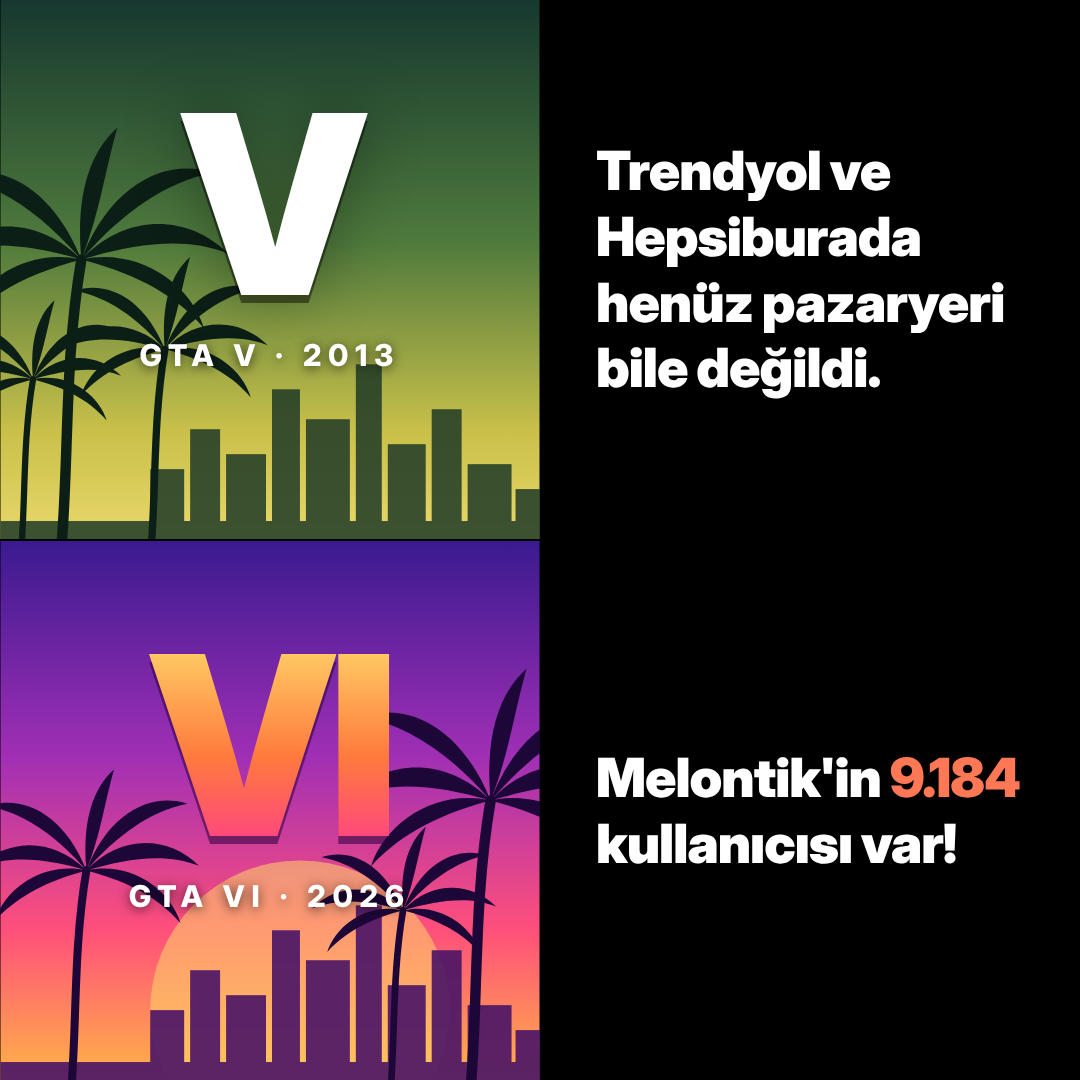
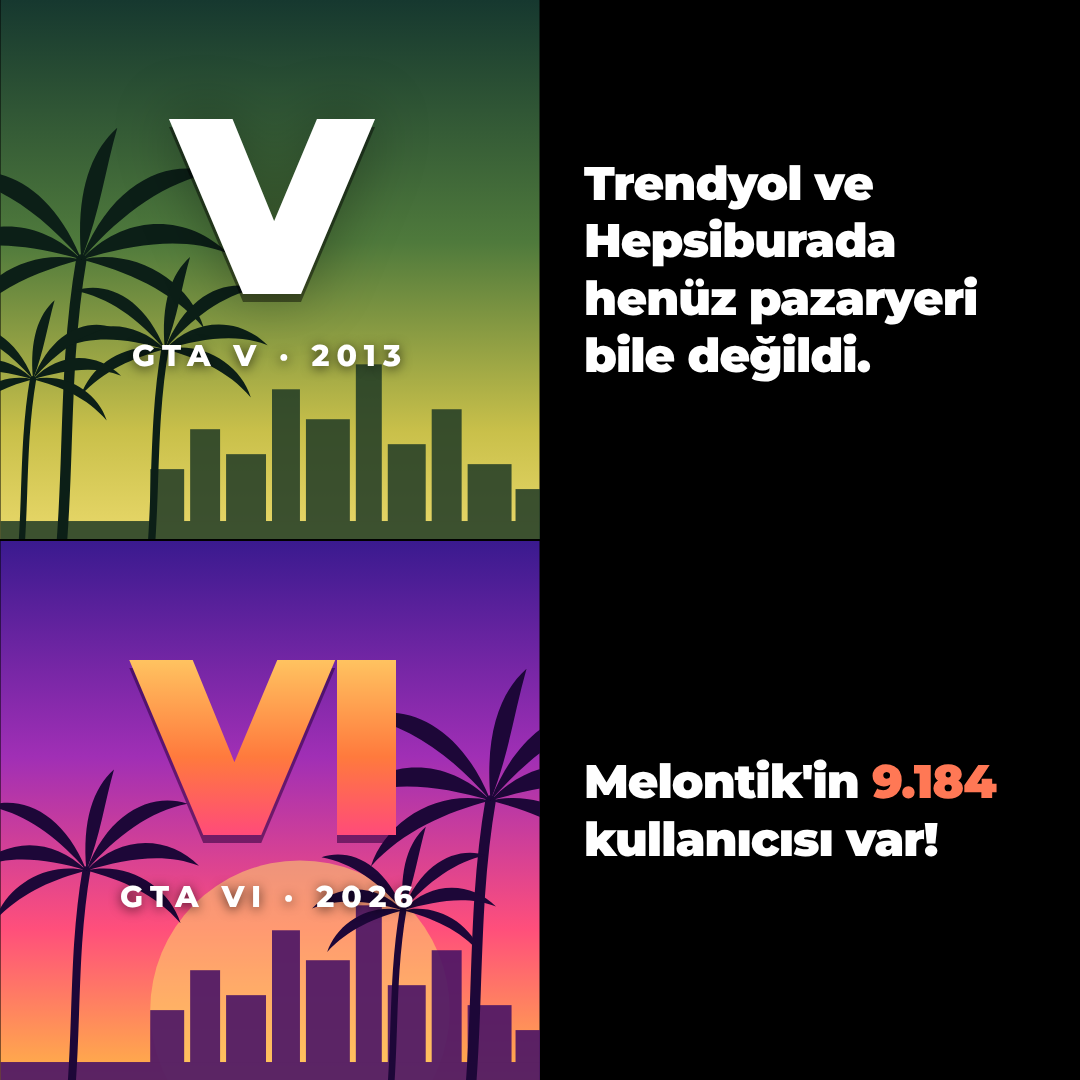
Use Montserrat in post images, add font to brand kit
Claude-Session: https://claude.ai/code/session_01SxS1wpERMiFJ1yj6p7A89b

diff --git a/brand/README.md b/brand/README.md
@@ -18,3 +18,7 @@ Kaynak: Canva marka kiti ("Brand colors" paleti).
 | Açık mavi | `#56DDFF` | İkincil vurgu |
 
 Görsel ve post tasarımlarında vurgu rengi olarak mercanı kullan.
+
+## Yazı tipi
+
+Montserrat (tüm stiller). Başlıklar kalın (Bold/ExtraBold), gövde ve açıklama metinleri normal ağırlıkta.
